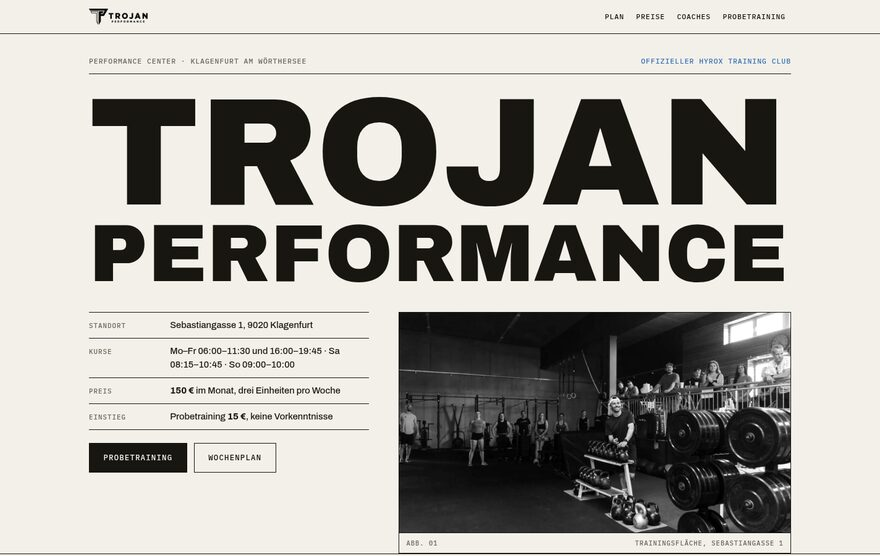
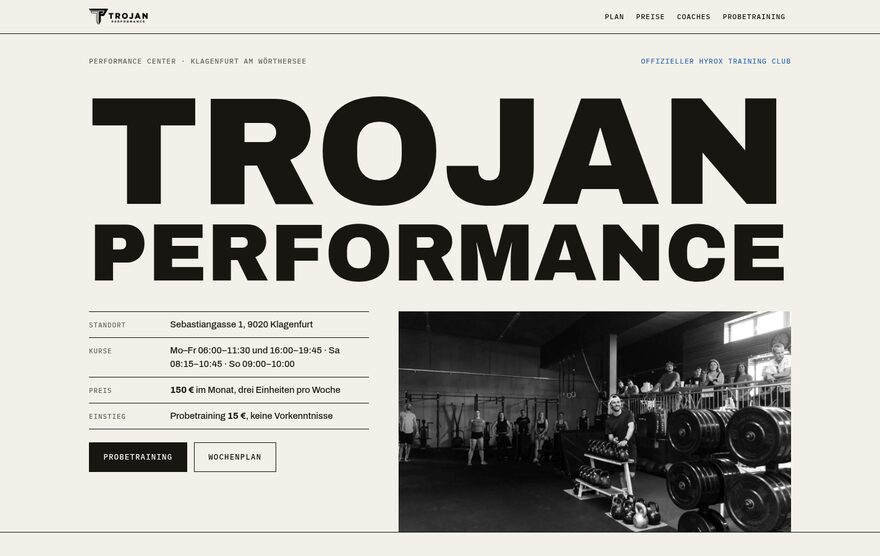
Rotstift: der erste Bildschirm sieht nicht mehr aus wie eine Titelseite
Vier Zutaten trafen sich oben und ergaben zusammen eine Zeitung: der Name über
die volle Breite in fetter Grotesk, darüber eine Haarlinie mit Ort links und
Ressort rechts, ein umrahmtes Foto mit "Abb. 01" und Legendenleiste, dazu
Cremeton und Schwarzweiss. Jede für sich unauffällig.

Weg sind jetzt die Bildunterschriften, der Rahmen ums Bild und die Linie unter
der Kopfzeile. Bilder und Anordnung bleiben, wo sie waren; die Kopfzeile behält
Text und Aufteilung, nur der Strich darunter fehlt. Damit sind zwei der drei
waagrechten Linien im ersten Bildschirm weg, und der Blick wird nicht mehr in
Streifen zerlegt, bevor er beim Namen ist.

Inhaltlich geht dabei nichts verloren: "Trainingsfläche, Sebastiangasse 1"
stand doppelt, die Adresse steht zwei Handbreit weiter links im Datenblatt, und
die Bildbeschreibungen stecken weiterhin im alt-Text.

Die Klasse heisst jetzt .bild statt .rahmen, weil es keinen Rahmen mehr gibt.

Der Handoff führt "Abb. 01"-Bildunterschriften als einen der Reflexe, den drei
Agenten mit demselben Auftrag unabhängig voneinander produziert haben. Hier ist
er zum ersten Mal wieder abgeräumt.

Claude-Session: https://claude.ai/code/session_011seyKRZKnHmVqc44yjkGAQ

diff --git a/rotstift/index.html b/rotstift/index.html
@@ -83,7 +83,11 @@ button{font:inherit;color:inherit;background:none;border:0;cursor:pointer}
   display:flex;justify-content:space-between;gap:1rem;
   font-family:var(--mono);font-size:.72rem;letter-spacing:.08em;text-transform:uppercase;
   color:var(--grau);
-  border-bottom:1px solid var(--tinte);padding-bottom:.7rem;margin-bottom:1.4rem;
+  /* Ohne Linie darunter. Ort links, Zusatz rechts, eine Haarlinie quer und
+     darunter der Name über die volle Breite: das war die Folienzeile einer
+     Zeitung, und der erste Bildschirm sah entsprechend aus. Die Anordnung
+     bleibt, die Linie geht. */
+  padding-bottom:.7rem;margin-bottom:1.4rem;
 }
 .hero-kicker .akz{color:var(--akzent);text-align:right}
 .fit{display:block;width:100%;overflow:hidden}
@@ -124,14 +128,14 @@ button{font:inherit;color:inherit;background:none;border:0;cursor:pointer}
 .knopf-voll:hover{background:var(--akzent);border-color:var(--akzent)}
 .knopf-leer:hover{background:var(--tinte);color:var(--papier)}
 
-/* ---------- Figuren ---------- */
-figure.rahmen{border:1px solid var(--tinte)}
-figure.rahmen img{width:100%;filter:grayscale(1) contrast(1.1) brightness(1.04)}
-figure.rahmen figcaption{
-  display:flex;justify-content:space-between;gap:1rem;
-  font-family:var(--mono);font-size:.66rem;letter-spacing:.09em;text-transform:uppercase;
-  color:var(--grau);border-top:1px solid var(--tinte);padding:.5rem .7rem;
-}
+/* ---------- Figuren ----------
+   Ohne Rahmen und ohne Bildunterschrift. Der Rahmen mit Legendenleiste
+   darunter, „Abb. 01" links und der Ort rechts, war eine Reproduktion in
+   einem Katalog, kein Bild auf einer Seite; zusammen mit dem Cremeton und
+   dem Titelkopf sah der erste Bildschirm aus wie eine Titelseite. Der Inhalt
+   der Legenden ging nicht verloren: die Adresse steht im Datenblatt daneben,
+   die Bildbeschreibung im alt-Text. */
+figure.bild img{width:100%;filter:grayscale(1) contrast(1.1) brightness(1.04)}
 
 /* ---------- Blöcke ---------- */
 .block{border-top:1px solid var(--tinte);padding:3.2rem 0 3.8rem}
@@ -423,9 +427,8 @@ figure.rahmen figcaption{
           <a class="knopf knopf-leer" href="#plan">Wochenplan</a>
         </div>
       </div>
-      <figure class="rahmen">
+      <figure class="bild">
         <picture><source type="image/webp" srcset="../assets/o-hero.webp"><img src="../assets/o-hero.jpg" width="1365" height="768" fetchpriority="high" alt="Trainingsfläche von oben: Hantelrack, dahinter eine Trainingsgruppe"></picture>
-        <figcaption><span>Abb. 01</span><span>Trainingsfläche, Sebastiangasse 1</span></figcaption>
       </figure>
     </div>
   </section>
@@ -483,9 +486,8 @@ figure.rahmen figcaption{
                Instanz, die im Zweifel recht hat. -->
           <p class="satz">Trainiert wird im Kurs, nach Plan, in kleinen Gruppen. Eine Einheit dauert 75 Minuten. Vorkenntnisse braucht es keine.</p>
         </div>
-        <figure class="rahmen auf">
+        <figure class="bild auf">
           <picture><source type="image/webp" srcset="../assets/o-kursgruppe.webp"><img src="../assets/o-kursgruppe.jpg" width="1365" height="910" loading="lazy" alt="Kursgruppe hält den Liegestütz, Langhantelstangen liegen am Boden"></picture>
-          <figcaption><span>Abb. 02</span><span>Kurseinheit auf der Fläche</span></figcaption>
         </figure>
       </div>
     </div>

diff --git a/src/trojan-H-rotstift.src.html b/src/trojan-H-rotstift.src.html
@@ -81,7 +81,11 @@ button{font:inherit;color:inherit;background:none;border:0;cursor:pointer}
   display:flex;justify-content:space-between;gap:1rem;
   font-family:var(--mono);font-size:.72rem;letter-spacing:.08em;text-transform:uppercase;
   color:var(--grau);
-  border-bottom:1px solid var(--tinte);padding-bottom:.7rem;margin-bottom:1.4rem;
+  /* Ohne Linie darunter. Ort links, Zusatz rechts, eine Haarlinie quer und
+     darunter der Name über die volle Breite: das war die Folienzeile einer
+     Zeitung, und der erste Bildschirm sah entsprechend aus. Die Anordnung
+     bleibt, die Linie geht. */
+  padding-bottom:.7rem;margin-bottom:1.4rem;
 }
 .hero-kicker .akz{color:var(--akzent);text-align:right}
 .fit{display:block;width:100%;overflow:hidden}
@@ -122,14 +126,14 @@ button{font:inherit;color:inherit;background:none;border:0;cursor:pointer}
 .knopf-voll:hover{background:var(--akzent);border-color:var(--akzent)}
 .knopf-leer:hover{background:var(--tinte);color:var(--papier)}
 
-/* ---------- Figuren ---------- */
-figure.rahmen{border:1px solid var(--tinte)}
-figure.rahmen img{width:100%;filter:grayscale(1) contrast(1.1) brightness(1.04)}
-figure.rahmen figcaption{
-  display:flex;justify-content:space-between;gap:1rem;
-  font-family:var(--mono);font-size:.66rem;letter-spacing:.09em;text-transform:uppercase;
-  color:var(--grau);border-top:1px solid var(--tinte);padding:.5rem .7rem;
-}
+/* ---------- Figuren ----------
+   Ohne Rahmen und ohne Bildunterschrift. Der Rahmen mit Legendenleiste
+   darunter, „Abb. 01" links und der Ort rechts, war eine Reproduktion in
+   einem Katalog, kein Bild auf einer Seite; zusammen mit dem Cremeton und
+   dem Titelkopf sah der erste Bildschirm aus wie eine Titelseite. Der Inhalt
+   der Legenden ging nicht verloren: die Adresse steht im Datenblatt daneben,
+   die Bildbeschreibung im alt-Text. */
+figure.bild img{width:100%;filter:grayscale(1) contrast(1.1) brightness(1.04)}
 
 /* ---------- Blöcke ---------- */
 .block{border-top:1px solid var(--tinte);padding:3.2rem 0 3.8rem}
@@ -421,9 +425,8 @@ figure.rahmen figcaption{
           <a class="knopf knopf-leer" href="#plan">Wochenplan</a>
         </div>
       </div>
-      <figure class="rahmen">
+      <figure class="bild">
         <img src="__PH_HERO__" width="1365" height="768" fetchpriority="high" alt="Trainingsfläche von oben: Hantelrack, dahinter eine Trainingsgruppe">
-        <figcaption><span>Abb. 01</span><span>Trainingsfläche, Sebastiangasse 1</span></figcaption>
       </figure>
     </div>
   </section>
@@ -481,9 +484,8 @@ figure.rahmen figcaption{
                Instanz, die im Zweifel recht hat. -->
           <p class="satz">Trainiert wird im Kurs, nach Plan, in kleinen Gruppen. Eine Einheit dauert 75 Minuten. Vorkenntnisse braucht es keine.</p>
         </div>
-        <figure class="rahmen auf">
+        <figure class="bild auf">
           <img src="__PH_KURSGRUPPE__" width="1365" height="910" loading="lazy" alt="Kursgruppe hält den Liegestütz, Langhantelstangen liegen am Boden">
-          <figcaption><span>Abb. 02</span><span>Kurseinheit auf der Fläche</span></figcaption>
         </figure>
       </div>
     </div>

diff --git a/index.html b/index.html
@@ -154,7 +154,7 @@ footer p+p{margin-top:10px}
       <h3>Rotstift</h3>
       <p>Papier und genau eine Farbe: das offizielle Blau der Livesite. Der Stift kreist
         im Preisblock den Einstiegstarif ein, der Wochenplan steht als volles Raster über
-        die ganze Woche. Von 1060 auf 408 Wörter.</p>
+        die ganze Woche. Von 1060 auf 397 Wörter.</p>
       <span class="go">Ansehen <i></i></span>
     </div>
   </a>

diff --git a/README.md b/README.md
@@ -46,7 +46,7 @@ Was der Schnitt gebracht hat, in sichtbaren Wörtern:
 | stele | 928 | **312** | | spalte | 1017 | **441** |
 | logbuch | 1035 | **386** | | quer | 901 | **370** |
 | protokoll | 1174 | **544** | | fluss | 1241 | **392** |
-| rotstift | 1060 | **408** | | spektrum | 810 | **392** |
+| rotstift | 1060 | **397** | | spektrum | 810 | **392** |
 | satz | 645 | **272** | | grau | 1022 | **414** |
 | nacht | 1174 | **554** | | wende | 1466 | **581** |
 
